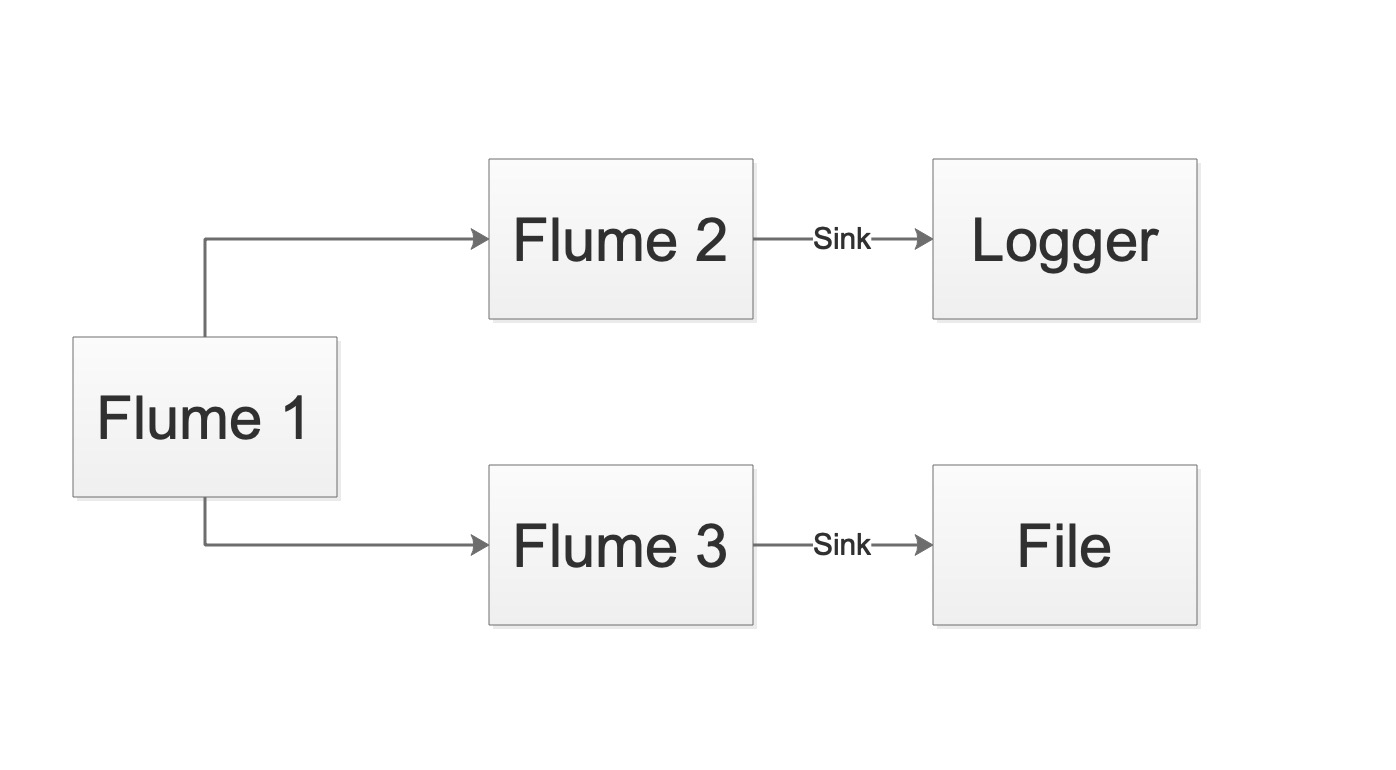
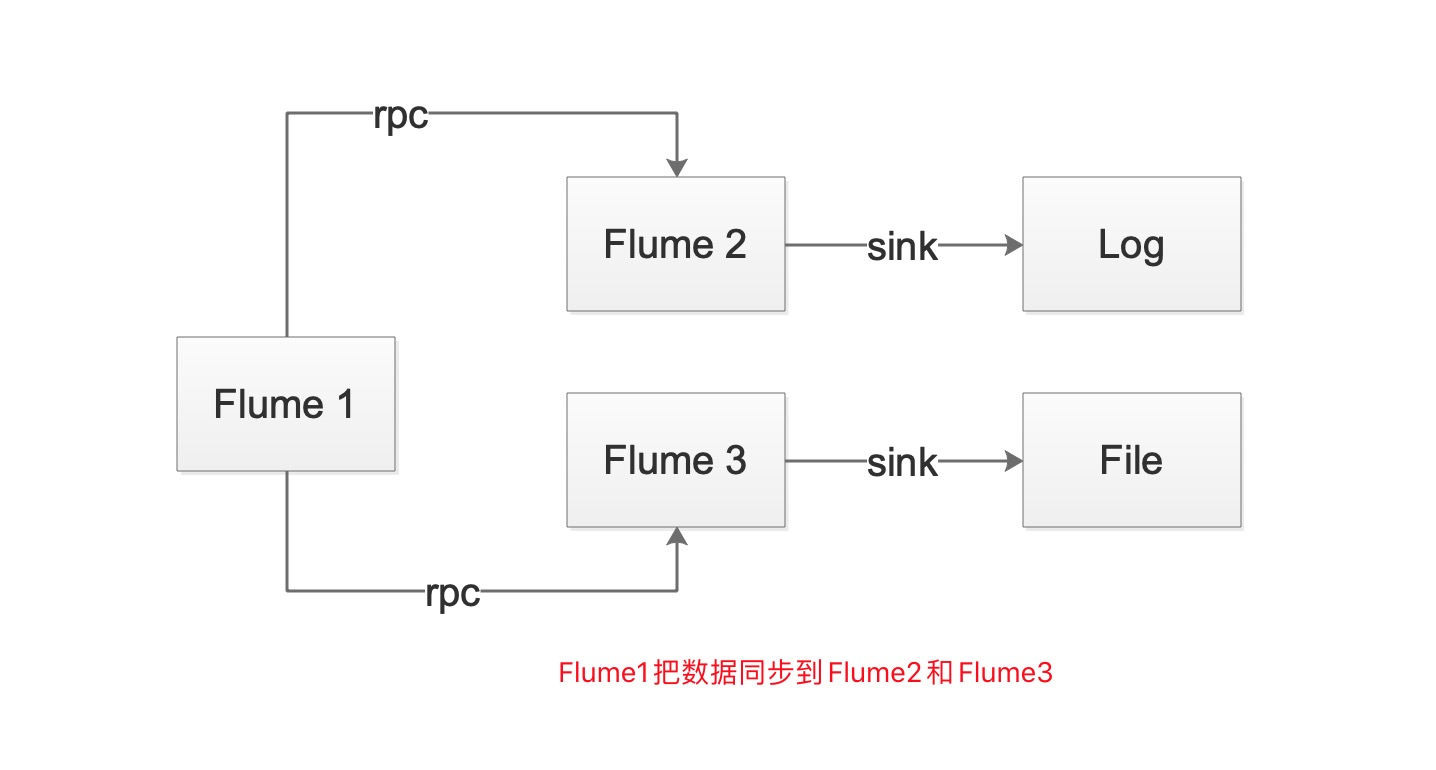
init blog

diff --git a/_posts/2020-11-11-Flume-Sinke-Load-balancing.md b/_posts/2020-11-11-Flume-Sinke-Load-balancing.md
@@ -1,0 +1,126 @@
+---
+layout: post
+title: 'Flume Sink Load Balancing'
+date: 2020-11-11
+author: 李新
+tags: Flume
+---
+
+### (1). 需求
+> Flume1接受数据,同步给Flum2和Flume3.<font color='red'>同步时,如果出现错误,需要进行失败转移或负载均衡.</font>
+
+!["Flume 单数据源多出口"](/assets/flume/imgs/flume-multiplexing-flow.jpg)
+
+### (2). Flume1配置(sink-load-balance.conf)
+```
+a1.sources = r1
+a1.channels = c1
+a1.sinks = k1 k2
+
+
+# define sink group 
+a1.sinkgroups = g1
+a1.sinkgroups.g1.sinks = k1 k2
+a1.sinkgroups.g1.processor.type = load_balance
+
+# 定义失败转移或负载均衡
+# a1.sinkgroups.g1.processor.type = failover
+# a1.sinkgroups.g1.processor.priority.k1 = 5
+# a1.sinkgroups.g1.processor.priority.k2 = 10
+# a1.sinkgroups.g1.processor.maxpenalty = 10000
+
+
+a1.sources.r1.type = TAILDIR
+a1.sources.r1.positionFile=/tmp/log/flume/taildir_position.json
+# define groups
+a1.sources.r1.filegroups=f1
+a1.sources.r1.filegroups.f1=/Users/lixin/Workspace/spring-cloud-sample-provider/logs/.*access_log.*
+a1.sources.r1.headers.f1.headerKey1=value1
+a1.sources.r1.fileHeader = true
+a1.sources.ri.maxBatchCount = 1000
+a1.sources.r1.channels = c1
+
+
+# Use a channel which buffers events in memory
+a1.channels.c1.type = memory
+a1.channels.c1.capacity = 1000
+a1.channels.c1.transactionCapacity = 100
+
+
+a1.sinks.k1.type=avro
+a1.sinks.k1.hostname=localhost
+a1.sinks.k1.port=4545
+a1.sinks.k1.channel=c1
+
+
+a1.sinks.k2.type=avro
+a1.sinks.k2.hostname=localhost
+a1.sinks.k2.port=4546
+a1.sinks.k2.channel=c1
+```
+
+### (3). Flume2配置(avro-flume-log.conf)
+```
+a1.sources = r1
+a1.channels = c1
+a1.sinks = k1
+
+# Describe/configure the source
+a1.sources.r1.type = avro
+a1.sources.r1.bind = localhost
+a1.sources.r1.port = 4545
+# Bind the source and sink to the channel
+a1.sources.r1.channels = c1
+
+# Use a channel which buffers events in memory
+a1.channels.c1.type = memory
+a1.channels.c1.capacity = 1000
+a1.channels.c1.transactionCapacity = 100
+
+# Describe the sink
+a1.sinks.k1.type = logger
+# Bind the source and sink to the channel
+a1.sinks.k1.channel = c1
+```
+
+### (4). Flume3配置(avro-flume-file.conf)
+```
+a1.sources = r1
+a1.channels = c1
+a1.sinks = k1
+
+# Describe/configure the source
+a1.sources.r1.type = avro
+a1.sources.r1.bind = localhost
+a1.sources.r1.port = 4546
+# Bind the source and sink to the channel
+a1.sources.r1.channels = c1
+
+# Use a channel which buffers events in memory
+a1.channels.c1.type = memory
+a1.channels.c1.capacity = 1000
+a1.channels.c1.transactionCapacity = 100
+
+
+# Describe the sink
+a1.sinks.k1.type = file_roll
+a1.sinks.k1.sink.rollInterval=0
+a1.sinks.k1.sink.directory = /tmp/log/flume
+# Bind the source and sink to the channel
+a1.sinks.k1.channel = c1
+```
+
+### (5). Flume1启动agent
+```
+bin/flume-ng agent --name a1 --conf conf --conf-file ./works/sink-load-balance.conf  -Dflume.root.logger=INFO,console
+```
+
+### (6). Flume2启动agent
+```
+bin/flume-ng agent --name a1 --conf conf --conf-file ./works/avro-flume-log.conf  -Dflume.root.logger=INFO,console
+```
+
+### (7). Flume3启动agent
+```
+bin/flume-ng agent --name a1 --conf conf --conf-file ./works/avro-flume-file.conf  -Dflume.root.logger=INFO,console
+```

diff --git a/_posts/2020-11-11-Flume-Replicating-Channel-Selector.md b/_posts/2020-11-11-Flume-Replicating-Channel-Selector.md
@@ -1,13 +1,13 @@
 ---
 layout: post
-title: 'Flume Multiplexing Flow'
+title: 'Flume Replicating Channel Selector'
 date: 2020-11-11
 author: 李新
 tags: Flume
 ---
 
 ### (1). 业务需求
-> Flum1 收集数据 传输给 Flum2 和 Flum3  
+> Flum1 收集数据 传输给 Flum2 和 Flum3,要求:<font color='red'>Flum2和Flum3的数据一模一样.</font>
 
 !["Flume 单数据源多出口"](/assets/flume/imgs/flume-multiplexing-flow.jpg)
 
